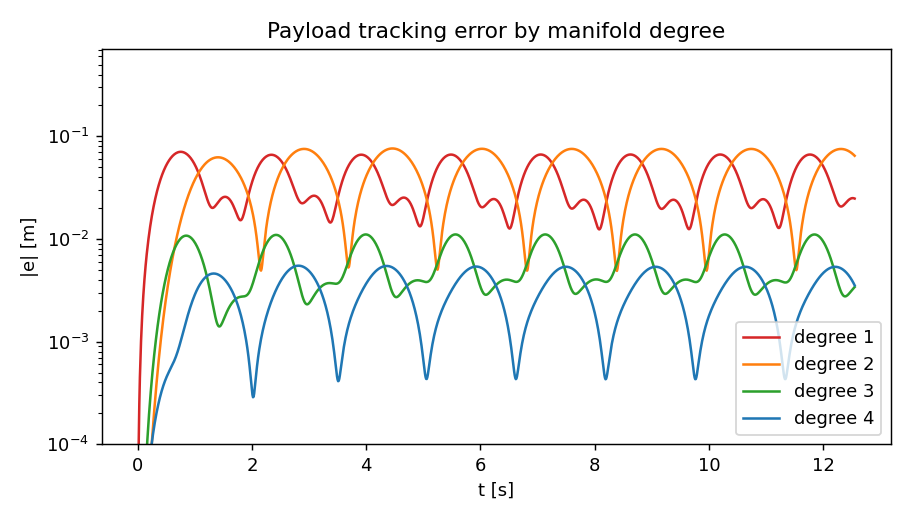
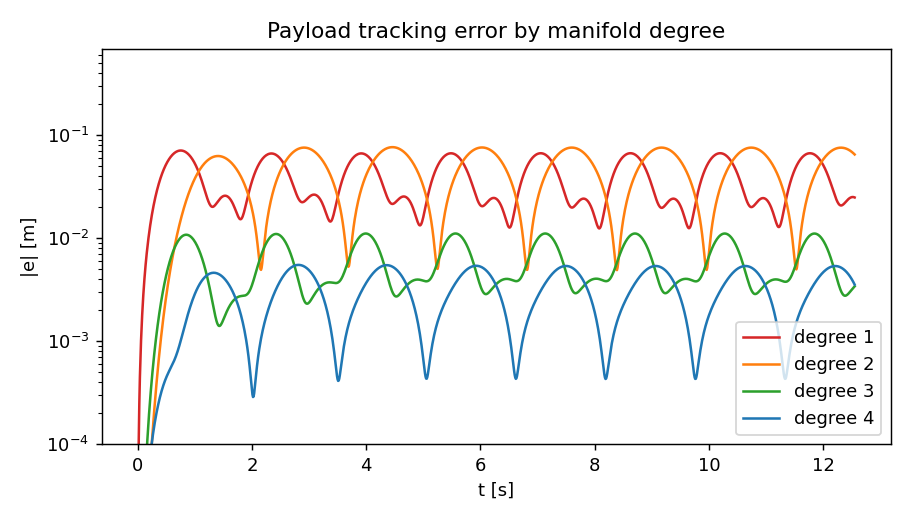
fixed bug with thruster animation and readme

diff --git a/examples/example_thruster.py b/examples/example_thruster.py
@@ -18,7 +18,7 @@ STEPS = 900
 POLES = [-2.5, -3.5, -2.6, -3.6, -2.7, -3.7]
 
 #Loop params
-SAMPLES = 256
+SAMPLES = 2
 ITERS = 10
 SPREAD = 0.1
 
@@ -156,9 +156,7 @@ def make_outputs(xf, cf, wf, xb, nst):
     en_f = np.linalg.norm(xf[:, :3] - ref, axis=1)
     en_b = np.linalg.norm(xb[:, :3] - ref, axis=1)
     wind = wf[:, 2:4] @ Gn.T
-    sp = np.sum(wind**2, axis=1, keepdims=True)
-    rv = np.stack([om_r * wf[:, 1], -om_r * wf[:, 0]], axis=1) @ Rn.T
-    dforce = k_f * wind + (c_d / mass) * np.sum((rv - wind)**2, axis=1, keepdims=True) * (rv - wind)
+    dforce = k_f * wind
 
     #Reference loop for context
     tt = np.linspace(0, 2 * np.pi / om_r, 300)

diff --git a/make_swing_figure.py b/make_swing_figure.py
@@ -15,7 +15,7 @@ from NSTJAX import NSTJAX
 from NSTJAX.NSTJAX_suite import build_taylor
 
 #Loop params
-SAMPLES = 256
+SAMPLES = 2
 DT = 0.01
 T_END = 12.566        #One closed 2:3 Lissajous period
 STEPS = int(T_END / DT)
@@ -138,7 +138,7 @@ def run_case(d, W, Kfb):
 
     #Warmup, warm_start rebuilds from cache and JIT compiles solve and inference
     t0 = time.perf_counter()
-    nst.warm_start(z0, x_0, samples=STEPS)
+    nst.warm_start(z0, x_0, samples=SAMPLES)
     jax.block_until_ready((nst.th, nst.la))
     t_warm = time.perf_counter() - t0
 

diff --git a/examples/example_swing_drone.py b/examples/example_swing_drone.py
@@ -13,7 +13,7 @@ import scipy.linalg as sla
 from NSTJAX import NSTJAX
 
 #Loop params
-SAMPLES = 256         #Inference samples for the warm start
+SAMPLES = 2
 DT = 0.01             #Rollout step
 T_END = 12.566        #One closed 2:3 Lissajous period
 STEPS = int(T_END / DT)

diff --git a/README.md b/README.md
@@ -7,7 +7,7 @@
 
 </div>
 
-# A JAX based independent reimplementation of the control suite from Nonlinear Systems Toolbox by Professor A.J. Krener
+## A JAX based independent reimplementation of the control suite from Nonlinear Systems Toolbox by Professor A.J. Krener
 
 Please note that this is not intended to copy the original MATLAB suite one-to-one. The original toolbox can be obtained from https://www.math.ucdavis.edu/~krener/nst08.zip
 
@@ -18,11 +18,7 @@ The entire project is divided into two parts:
 1. **NSTJAX_suite**: Reimplementation of Al'Brekht's approach based on Krener's designs in JAX.
 2. **NSTJAX_bridge**: A bridging component to convert computed matrices between the original NST in MATLAB and NSTJAX.
 
-To use the library please install using
-
-```bash
-pip install -e .
-```
+To use the library please install using `pip install -e .`
 
 ---
 
@@ -34,23 +30,31 @@ Given a controlled plant, an exosystem that generates the reference signal, and 
 
 This solution is a **local polynomial approximation** built from a Taylor expansion around the current operating point. It is cheap enough to recompute at every step (about **12 ms** for the full drone system with a six derivative exosystem), so the manifold can be refreshed as the operating point moves and the approximation stays accurate everywhere along the trajectory rather than only near a single linearization.
 
+Both continuous and discrete time plants are supported. For the discrete case (`disc=True`), the manifold is held invariant by a composition $\theta(\bar{f}(\bar{x}))$ instead of a derivative.
+
+### The solver pipeline
+
 <p align="center">
-  <img src="docs/figures/drone_nominal_trajectory.png" width="840" alt="Nominal drone trajectory and feedforward">
+  <img src="docs/figures/pipeline.svg" width="880" alt="FBIJAX solve pipeline">
 </p>
 
-<p align="center"><em>Nominal flight path produced by rolling the exosystem through the tracking manifold theta, with the feedforward lambda along the trajectory.</em></p>
+<p align="center"><em>The solve pipeline: Taylor maps, the degree by degree FBI solve, and batched inference, refreshed at each operating point.</em></p>
 
-Both continuous and discrete time plants are supported. For the discrete case (`disc=True`), the manifold is held invariant by a composition $\theta(\bar{f}(\bar{x}))$ instead of a derivative, and the per degree operator spectrum becomes products of the exosystem eigenvalues rather than sums.
+Each operating point passes through three stages:
 
----
+1. **Taylor maps** (`taylor.py`) build JIT compiled coefficient maps for `f`, `h` and the exosystem, evaluated by forward mode differentiation. The maps are built once and reused; each call returns the packed graded coefficients of the field at the current operating point.
+2. **FBI solve** (`fbi.py` or `fbi_fast.py`) solves the regulator equations degree by degree and returns the packed `theta` and `lambda` coefficients. Degree one is the linear regulator; each higher degree reuses the same left operator with a right hand side assembled from the lower degree coefficients through the polynomial algebra in `polylib.py`.
+3. **Inference** (`fbi_eval.py`) evaluates the manifold `theta(x_)` and the feedforward `lambda(x_)` on a batch of exosystem samples, reusing the cached evaluation kernel.
 
-## Quickstart
+After the first compiling call the warm path is the relevant timing, and the whole pipeline is cheap enough to refresh at every operating point in a moving loop. A high level wrapper `NSTJAX` is provided is provided to make it easier for the user.
+
+### Quickstart
 
 The high level `NSTJAX` object wraps map building, solver selection and inference. Define the plant, the exosystem and the error map, warm start once, then solve at any operating point.
 
 ```python
 import jax.numpy as jnp
-from NSTJAX.NSTJAX_suite.nstjax import NSTJAX
+from NSTJAX import NSTJAX
 
 #Dimensions: states n, controls m, errors p, exosystem n_, expansion degree d
 n, m, p, n_, d = 10, 4, 24, 4, 2
@@ -79,9 +83,7 @@ feedforward = nst.compute_lambda(W)      #(samples x m)
 
 The auto solver routes small systems to the dense solve and large ones to the decoupled solve. The first call compiles, later calls reuse the cached kernels.
 
----
-
-## Performance
+### Performance
 
 After warmup the full step, coefficients, solve and inference together, runs at about 12 ms for the drone system with its six derivative exosystem (10 states, 24 exostates, 4 inputs, 4 outputs). On the smaller pendulum system (2 states, 3 exostates, 1 input, 1 output), it takes approx 0.5ms. This is performed on a laptop with Ryzen 7 8845hs CPU, 32GB RAM, and NVIDIA GeForce RTX 4060 Laptop with 8GB VRAM.
 
@@ -98,26 +100,46 @@ After warmup the full step, coefficients, solve and inference together, runs at 
 
 ## Examples
 
-The repository ships runnable examples for a drone and a controlled pendulum, at the high level `NSTJAX` interface and a lower level direct solve, plus a world model example that learns the plant online and re-solves FBI on it.
+The repository ships runnable examples for a drone and a controlled pendulum, at the high level `NSTJAX` interface and a lower level direct solve.
 
 <p align="center">
-  <img src="docs/figures/pendulum_phase.png" width="840" alt="Pendulum nominal manifold and tracking">
+  <img src="docs/figures/pendulum_phase.png" width="50%" alt="Pendulum nominal manifold and tracking">
+  <img src="docs/figures/drone_nominal_trajectory.png" width="45%"alt="Nominal drone trajectory and feedforward">
 </p>
 
-<p align="center"><em>Pendulum: the nominal manifold phase portrait, and the reference tracked on the manifold.</em></p>
+<p align="center"><em>Pendulum: the nominal manifold phase portrait, and the reference tracked on the manifold. Drone: Nominal flight path with the feedforward along the trajectory</em></p>
+
 
 ### Periodic disturbance rejection for thruster
-`example_thruster.py` considers a thruster with period wind disturbance and compares the performance between feedback only and feedback+FBI feedforward case. The RMSE reduces by 129x (from 1.991e-01 to 1.536e-03) while taking only 0.966 ms for the entire FBI+inference computation at 256 samples per step.
+`example_thruster.py` considers a thruster with period wind disturbance and compares the performance between feedback only and feedback+FBI feedforward case. The RMSE reduces by 129x (from 1.991e-01 to 1.536e-03) while taking only 0.96 ms for the entire Taylor+FBI+Inference computation (Note that if you warmstart with a single sample, for some reason the computation is slower, still working on this bug).
 
 <p align="center">
-  <img src="docs/figures/tracking_anim.gif" width="560" alt="Thruster tracking under wind">
+  <img src="docs/figures/tracking_anim.gif" width="95%" alt="Thruster tracking under wind">
 </p>
 
 <p align="center"><em>Thruster disturbance rejection using FBI feedforward.</em></p>
 
+### Swinging payload tracking: manifold degree comparison
+
+`example_swing_drone.py` solves a cable suspended payload problem. We can see the difference in performance between degrees 1, 2, 3, and 4. The higher degree manifolds capture more of the swing nonlinearity, so the payload rides closer to the reference.
+
+<p align="center">
+  <img src="docs/figures/payload_degree_compare.gif" width="48%" alt="Payload tracking at manifold degree 1, 2 and 3">
+  <img src="docs/figures/payload_degree_error.png" width="48%" alt="Payload tracking error by manifold degree">
+</p>
+
+<p align="center"><em>Reference load against the closed loop payload path at degree 1, 2, 3, and 4, and tracking error norm over one reference period.</em></p>
+
+| Degree | Setup [ms] | Warmup [ms] | Inference / step [ms] | Tracking RMS [m] |
+|:------:|:----------:|:-----------:|:---------------------:|:----------------:|
+| 1      |    0.99    |   518.06    |         0.321         |     4.12e-02     |
+| 2      |    2.40    |   919.48    |         0.815         |     4.97e-02     |
+| 3      |    6.61    |   2392.08   |         2.462         |     6.43e-03     |
+| 4      |    20.20   |   35635.61  |        16.915         |     3.46e-03     |
+
 ### World model learning with FBI
 
-`example_wm_fbi.py` closes the loop around a learned plant. The true pendulum is unknown; the controller starts from a deliberately wrong nominal prior and corrects it with a neural residual, a neural-ODE world model `f_hat(x, u) = f_nominal(x, u) + MLP(x, u)`. Each round runs the same three steps:
+In `example_wm_fbi.py` the true pendulum is unknown; the controller starts from a deliberately wrong nominal prior and corrects it with a neural residual, a neural-ODE world model `f_hat(x, u) = f_nominal(x, u) + MLP(x, u)`. Each round runs the same three steps:
 
 1. **Solve.** Taylor expand the current `f_hat` at the operating point and run the FBI solve to get the manifold `theta` and feedforward `lambda` for the learned model, plus a feedback gain by pole placement on its linearization.
 2. **Roll out.** Drive the true system in closed loop with feedforward plus feedback plus a decaying dither, and collect the on-policy transitions.
@@ -131,46 +153,11 @@ As the world model improves, the FBI solution computed on it approaches the one 
 
 <p align="center"><em>World model learning: the learned manifold and feedforward errors against the true FBI solution, and the closed loop tracking error converging to the oracle bound.</em></p>
 
-### Swinging payload tracking: manifold degree comparison
-
-`example_swing_drone.py` solves a cable suspended payload problem. We can see the difference in performance between degrees 1, 2, 3, and 4. The higher degree manifolds capture more of the swing nonlinearity, so the payload rides closer to the reference.
-
-<p align="center">
-  <img src="docs/figures/payload_degree_compare.gif" width="560" alt="Payload tracking at manifold degree 1, 2 and 3">
-</p>
-
-<p align="center"><em>Reference load against the closed loop payload path at degree 1, 2 and 3.</em></p>
-
-<p align="center">
-  <img src="docs/figures/payload_degree_error.png" width="560" alt="Payload tracking error by manifold degree">
-</p>
-
-<p align="center"><em>Payload tracking error norm over one reference period for each manifold degree.</em></p>
-
-| Degree | Setup [ms] | Warmup [ms] | Inference / step [ms] | Tracking RMS [m] |
-|:------:|:----------:|:-----------:|:---------------------:|:----------------:|
-| 1      |    0.94    |   525.79    |         0.312         |     4.12e-02     |
-| 2      |    2.40    |   964.75    |         0.808         |     4.97e-02     |
-| 3      |    6.59    |   2492.99   |         2.422         |     6.43e-03     |
-| 4      |    21.11   |   36709.43  |        17.090         |     3.46e-03     |
-
 ---
 
-## Solution Validation Against Original NST
+## Additional Information
 
-The solve is cross checked against the original MATLAB NST values when reference arrays are present (`test_fbi_jax.py`), and against the dense Kronecker reference for the decoupled kernels (`test_fbi_fast.py`). The FBI residual measures how well the truncated polynomial solution satisfies the regulator equations at the operating point.
-
-<p align="center">
-  <img src="docs/figures/matlab_error.png" width="840" alt="Relative error against the MATLAB reference">
-</p>
-
-<p align="center"><em>Per coefficient relative error of the float32 solve against the MATLAB NST reference.</em></p>
-
----
-
-# Additional Information
-
-## Background
+### Background
 
 The library targets the **output regulation** problem. A plant, an exosystem driving the reference, and an error output
 
@@ -199,27 +186,17 @@ Following NST, the FBIJAX component solves these equations by expanding `theta` 
   <em>(a) FBI solution (b) Fast FBI solution. A stale solve degrades as the state moves away, while re-solving at each point holds the error down.</em>
 </p>
 
----
+### Solution Validation Against Original NST
 
-## The solve pipeline
-
-Each operating point passes through three stages:
-
-1. **Taylor maps** (`taylor.py`) build JIT compiled coefficient maps for `f`, `h` and the exosystem, evaluated by forward mode differentiation. The maps are built once and reused; each call returns the packed graded coefficients of the field at the current operating point.
-2. **FBI solve** (`fbi.py` or `fbi_fast.py`) solves the regulator equations degree by degree and returns the packed `theta` and `lambda` coefficients. Degree one is the linear regulator; each higher degree reuses the same left operator with a right hand side assembled from the lower degree coefficients through the polynomial algebra in `polylib.py`.
-3. **Inference** (`fbi_eval.py`) evaluates the manifold `theta(x_)` and the feedforward `lambda(x_)` on a batch of exosystem samples, reusing the cached evaluation kernel.
-
-After the first compiling call the warm path is the relevant timing, and the whole pipeline is cheap enough to refresh at every operating point in a moving loop.
+The solve is cross checked against the original MATLAB NST values when reference arrays are present (`test_fbi_jax.py`), and against the dense Kronecker reference for the decoupled kernels (`test_fbi_fast.py`). The FBI residual measures how well the truncated polynomial solution satisfies the regulator equations at the operating point.
 
 <p align="center">
-  <img src="docs/figures/pipeline.svg" width="880" alt="FBIJAX solve pipeline">
+  <img src="docs/figures/matlab_error.png" width="840" alt="Relative error against the MATLAB reference">
 </p>
 
-<p align="center"><em>The solve pipeline: Taylor maps, the degree by degree FBI solve, and batched inference, refreshed at each operating point.</em></p>
+<p align="center"><em>Per coefficient relative error of the float32 FBI solve against the MATLAB NST reference (original FBI).</em></p>
 
----
-
-## Dense `fbi` versus decoupled `fbi_fast`
+### Dense `fbi` versus decoupled `fbi_fast`
 
 At each degree `k` the regulator equation has the operator form
 
@@ -241,11 +218,9 @@ where `M` is the combined linear plant and output Jacobian, `Sel` selects the st
 
 <p align="center"><em>Warm solve time against problem size on a nilpotent family. The dense Kronecker solve overtakes the decoupled solve as the exosystem grows.</em></p>
 
----
+### Solvability screen
 
-## Solvability screen
-
-The Lie operator eigenvalues at degree `k` are the degree `k` sums of the exosystem eigenvalues (products, in the discrete case). The regulator equations are solvable when none of these coincide with a **transmission zero** of the `(M, Sel)` pencil. `solvability.py` and the `check` option in `fbi_fast` report, per degree, the gap between the operator spectrum and the transmission zeros, flagging resonant degrees and the structural regime (square, over or underdetermined). An overdetermined regime, where the error channel count exceeds the control count, is flagged as structurally infeasible; a resonant degree, where the gap falls below tolerance, signals a coincidence that makes the per degree solve singular.
+The Lie operator eigenvalues at degree `k` are the degree `k` sums of the exosystem eigenvalues (products, in the discrete case). The regulator equations are solvable when none of these coincide with a **transmission zero** of the `(M, Sel)` pencil. A `reporter.py` file computes per degree, the gap between the operator spectrum and the transmission zeros, flagging resonant degrees and the structural regime (square, over or underdetermined). An overdetermined regime, where the error channel count exceeds the control count, is flagged as structurally infeasible; a resonant degree, where the gap falls below tolerance, signals a coincidence that makes the per degree solve singular. Please invoke `verbose=True` in the wrapper to print the report.
 
 <p align="center">
   <img src="docs/figures/spectral_screen.png" width="560" alt="Solvability screen, spectrum versus transmission zeros">
@@ -257,9 +232,10 @@ The Lie operator eigenvalues at degree `k` are the degree `k` sums of the exosys
 
 ## References
 
-- A. Isidori and C. I. Byrnes, output regulation of nonlinear systems.
-- B. A. Francis, the linear multivariable regulator problem.
+- A. Isidori and C. I. Byrnes, Output regulation of nonlinear systems.
+- B. A. Francis, The linear multivariable regulator problem.
 - A. J. Krener, Nonlinear Systems Toolbox.
+- A. J. Krener, The construction of optimal linear and nonlinear regulators.
 
 ---
 